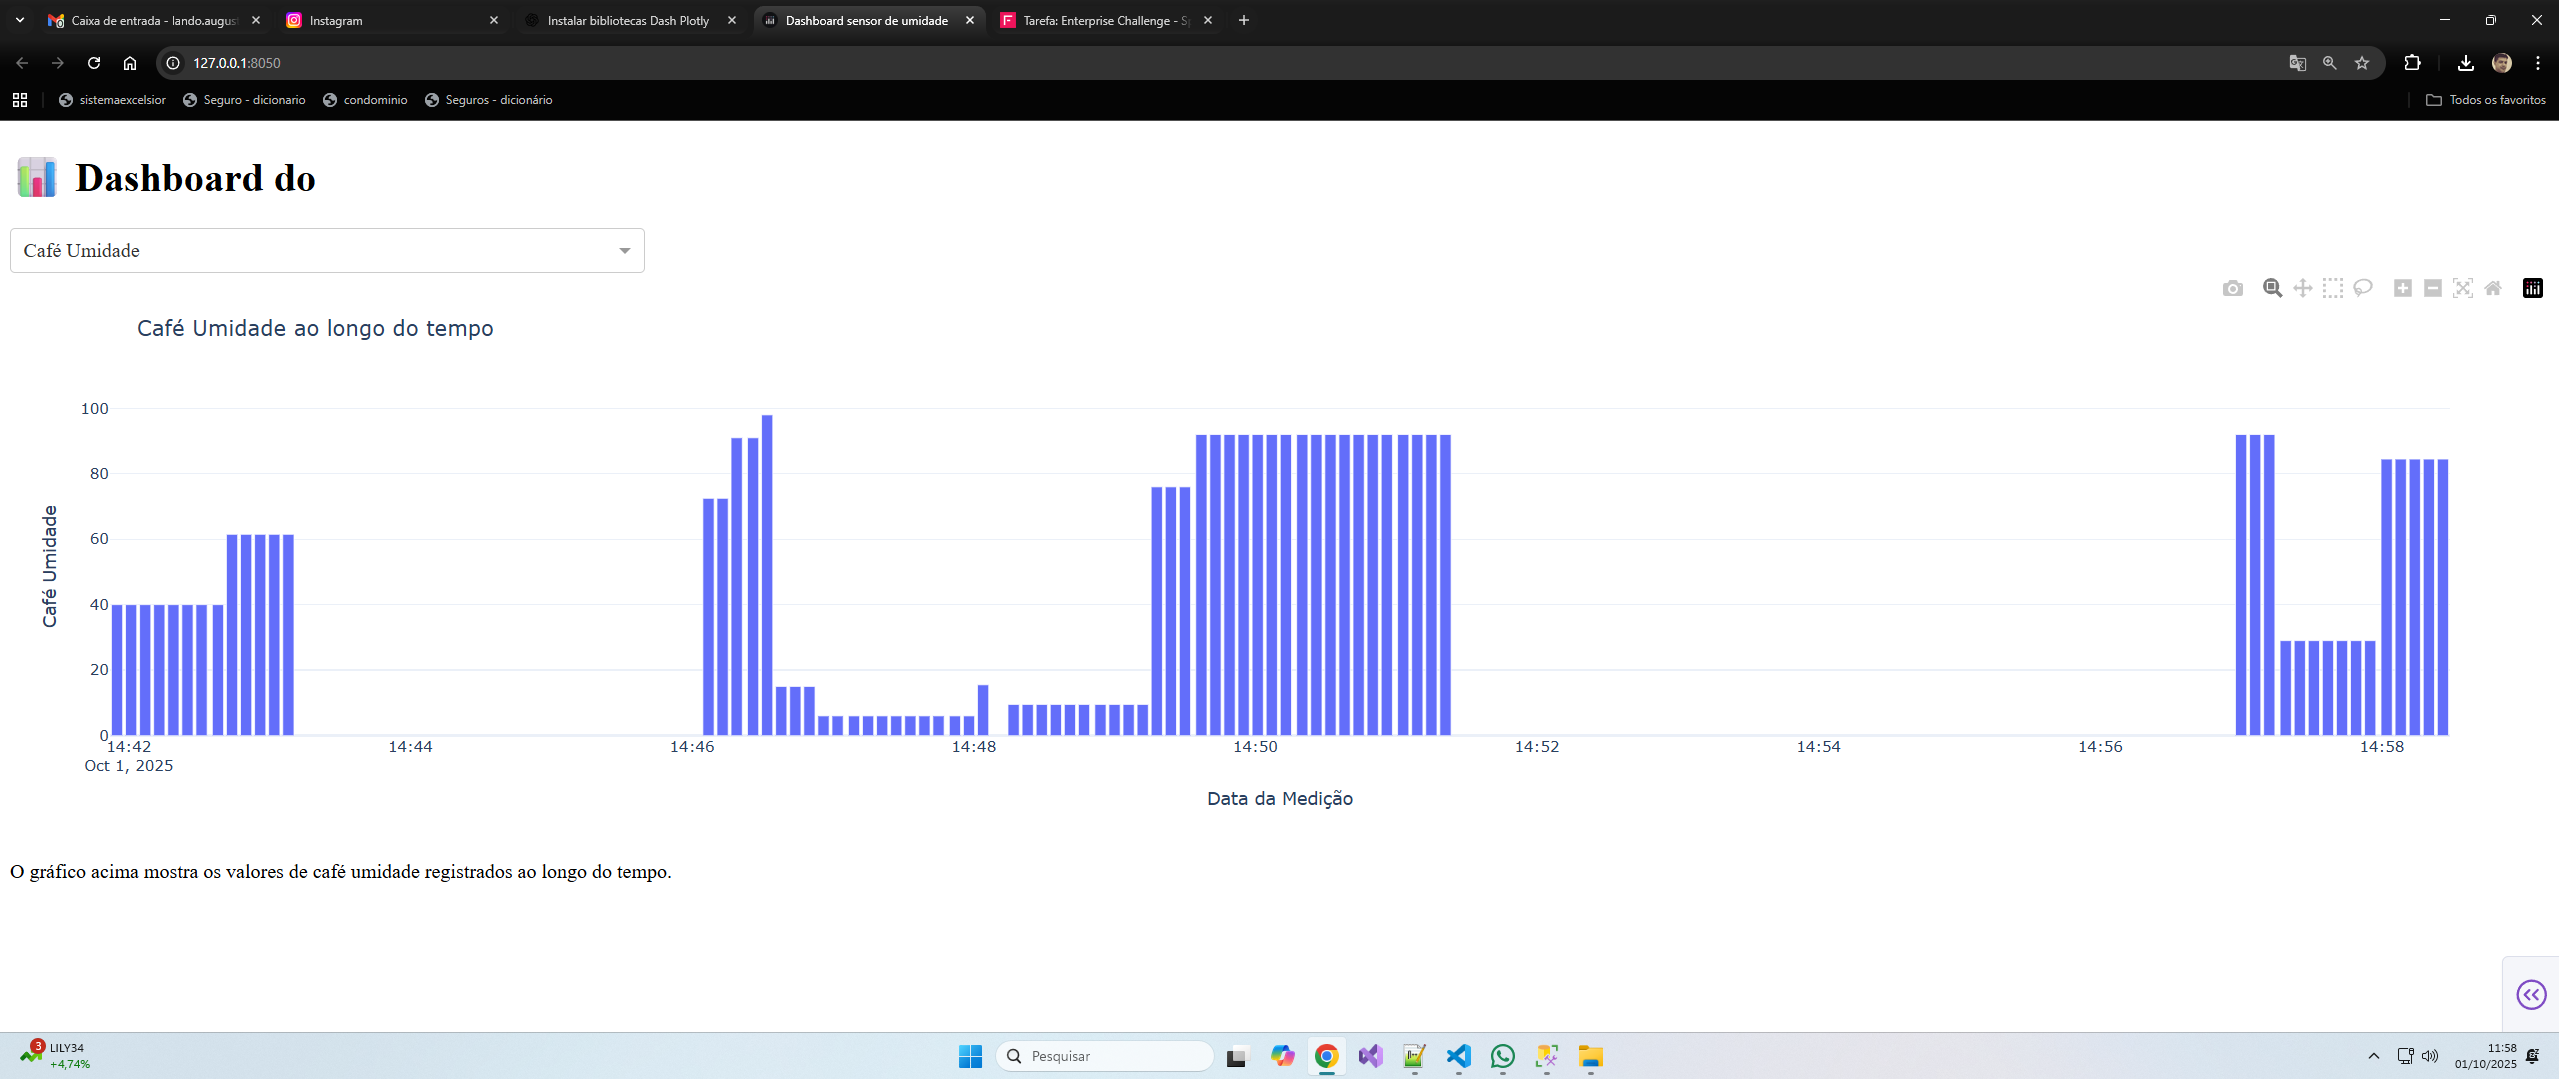
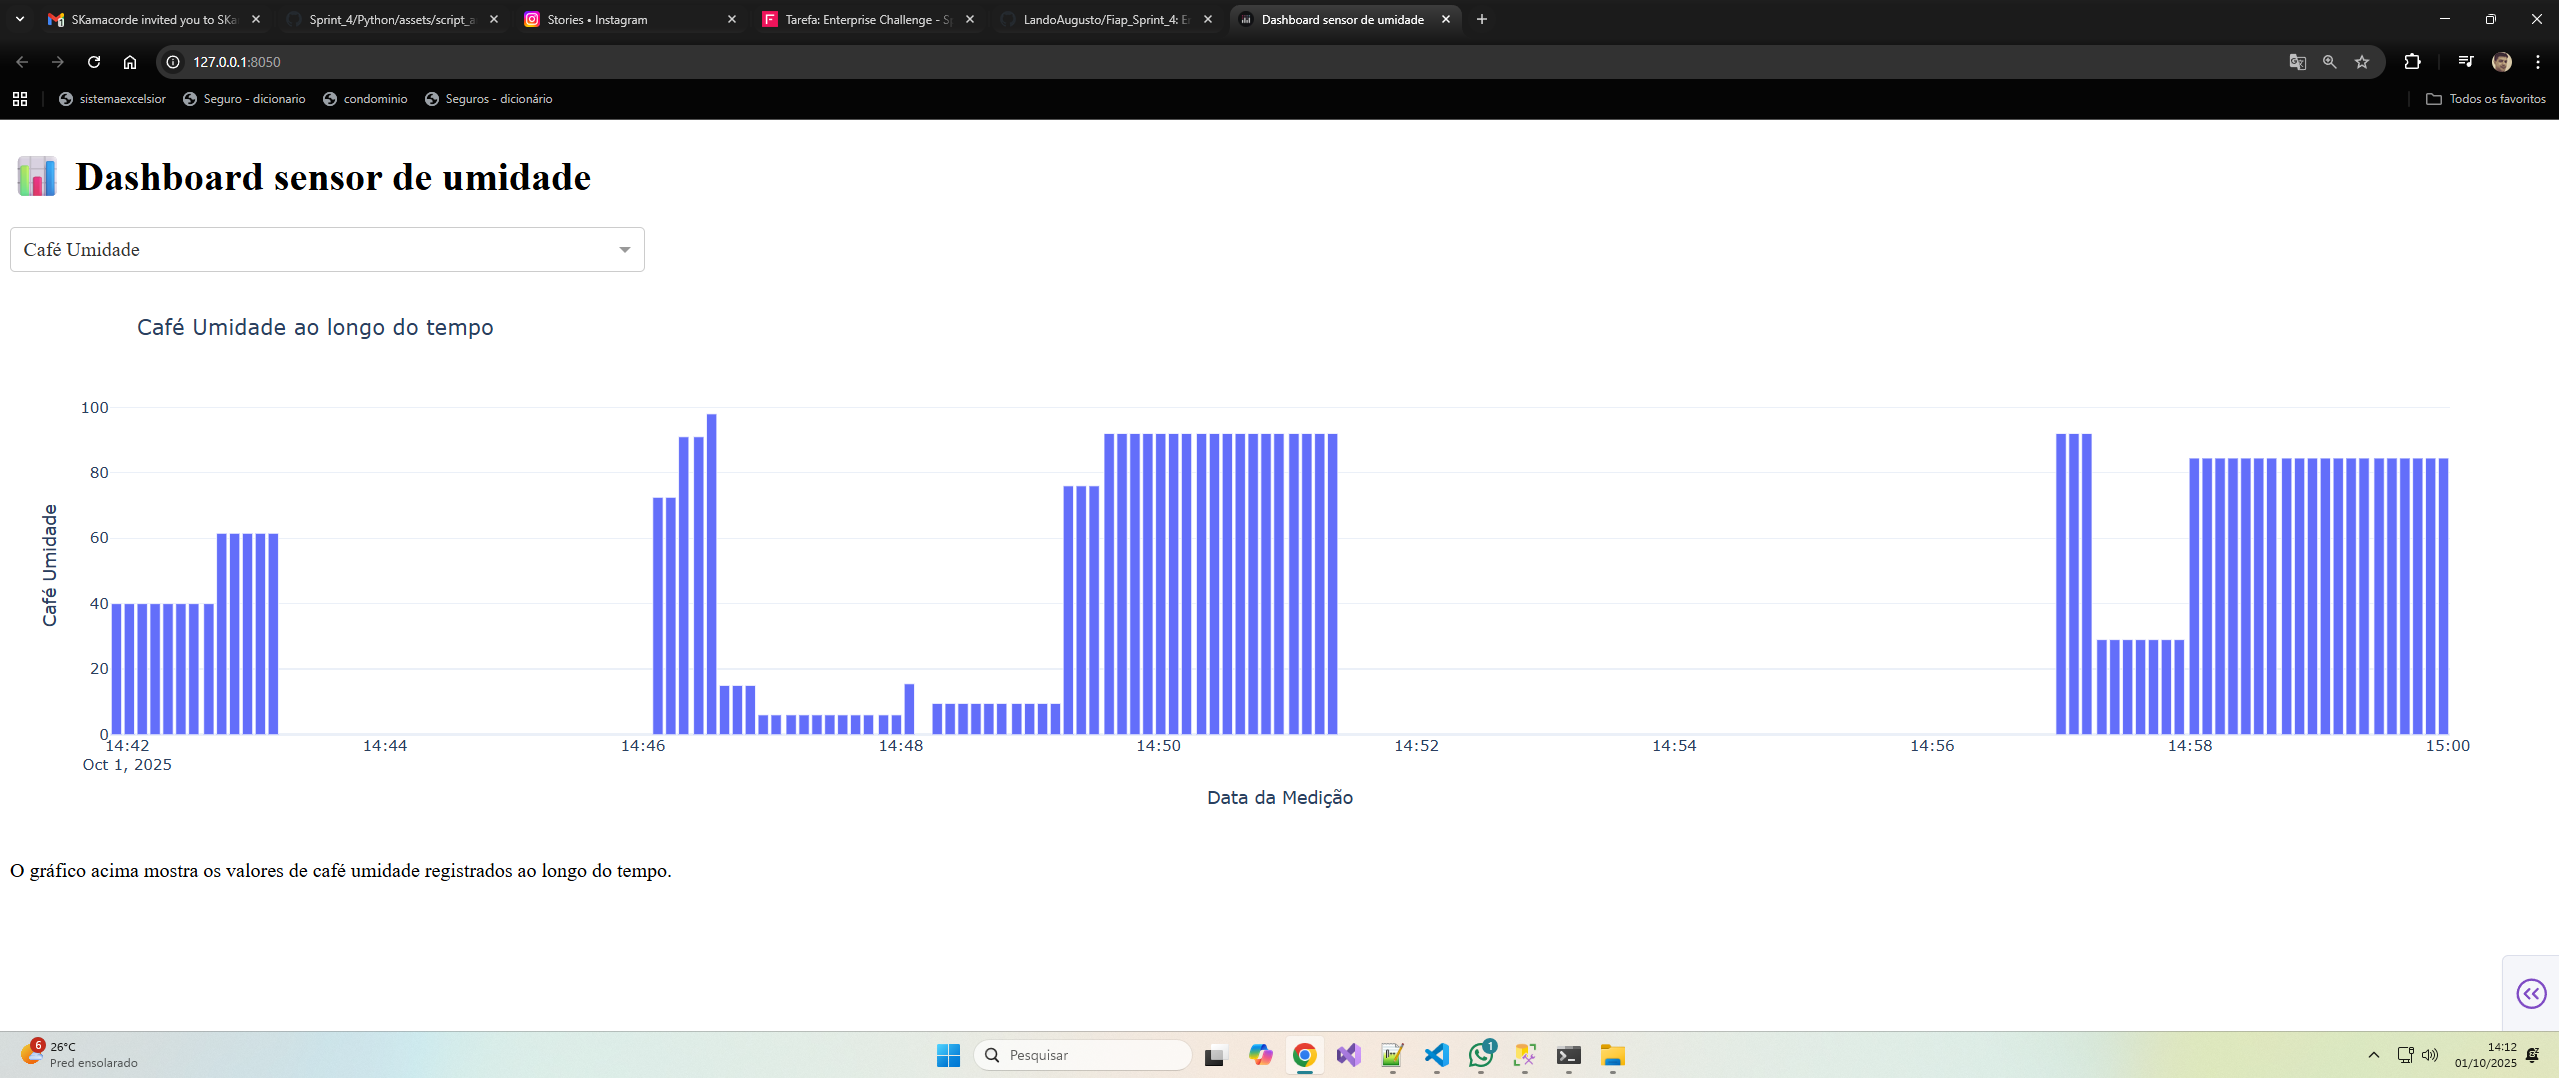
correções na imagem

diff --git a/Python/dashboard.py b/Python/dashboard.py
@@ -37,7 +37,7 @@ if __name__ == "__main__":
 
         # Layout do dashboard
         app.layout = html.Div([
-            html.H1("📊 Dashboard do "),
+            html.H1("📊 Dashboard sensor de umidade "),
             dcc.Dropdown(
                 id='sensor-selector',
                 options=[{'label': nome, 'value': nome} for nome in valid_sensors],
